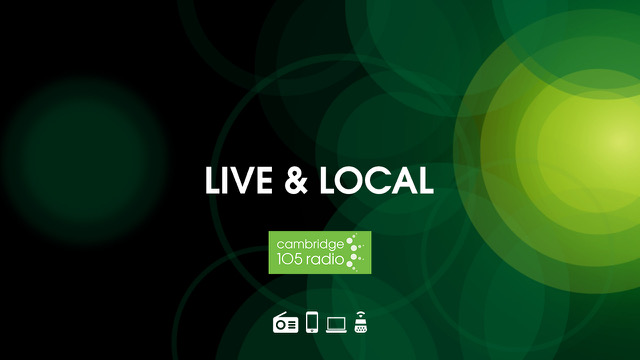
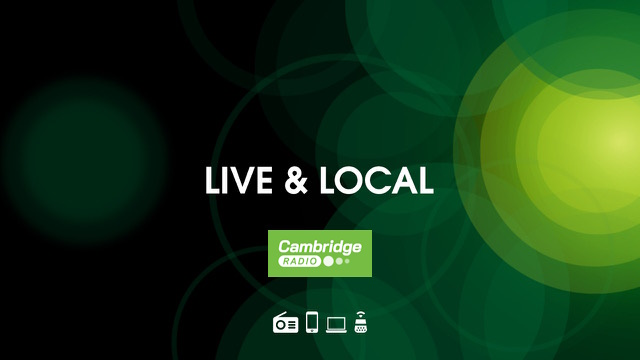
Cambridge Radio rebrand

Changed region(s): [[0.4062, 0.6417, 0.5938, 0.7944]]

diff --git a/index.html b/index.html
@@ -1,7 +1,7 @@
 <!DOCTYPE html>
 <html xmlns="http://www.w3.org/1999/xhtml">
 <head>
-    <title>Cambridge 105: Studio clock</title>
+    <title>Cambridge Radio: Studio clock</title>
     <link rel="stylesheet" href="style.css" />
     <script src="Scripts/jquery-2.1.1.min.js"></script>
     <!--[if IE]><script type="text/javascript" src="clock/excanvas.js"></script><![endif]-->
@@ -27,7 +27,7 @@
     <div id="footer">
         Failed to load schedule
     </div>
-    <div id="contact"> <span class="contactInfo">07919 070490</span> | <span class="contactInfo">studio@cambridge105.co.uk</span> | <span class="contactInfo">@cambridge105</span>
+    <div id="contact"> <span class="contactInfo">07919 070490</span> | <span class="contactInfo">studio@cambridge.radio</span>
     </div>
 	<div id="stationlogo"><img src="logo.png" width="200px" height="83px"></div>
     <div id="flash-container"><div id="flash-message">&nbsp;</div></div>

diff --git a/greenroom.html b/greenroom.html
@@ -1,7 +1,7 @@
 <!DOCTYPE html>
 <html xmlns="http://www.w3.org/1999/xhtml">
 <head>
-    <title>Cambridge 105: Studio clock</title>
+    <title>Cambridge Radio: Studio clock</title>
     <link rel="stylesheet" href="greenroom.css" />
     <script src="Scripts/jquery-2.1.1.min.js"></script>
     <!--[if IE]><script type="text/javascript" src="clock/excanvas.js"></script><![endif]-->
@@ -46,7 +46,7 @@
     <div id="onNextText" class="nowNextText">-</div>
   </div>
   <div id="contact" class="bottomBar">
-    studio@cambridge105.co.uk&nbsp;&nbsp;|&nbsp;&nbsp;07919&nbsp;070490&nbsp;&nbsp;|&nbsp;&nbsp;@cambridge105
+    studio@cambridge.radio&nbsp;&nbsp;|&nbsp;&nbsp;07919&nbsp;070490&nbsp;&nbsp;
   </div>
 </div>
 
